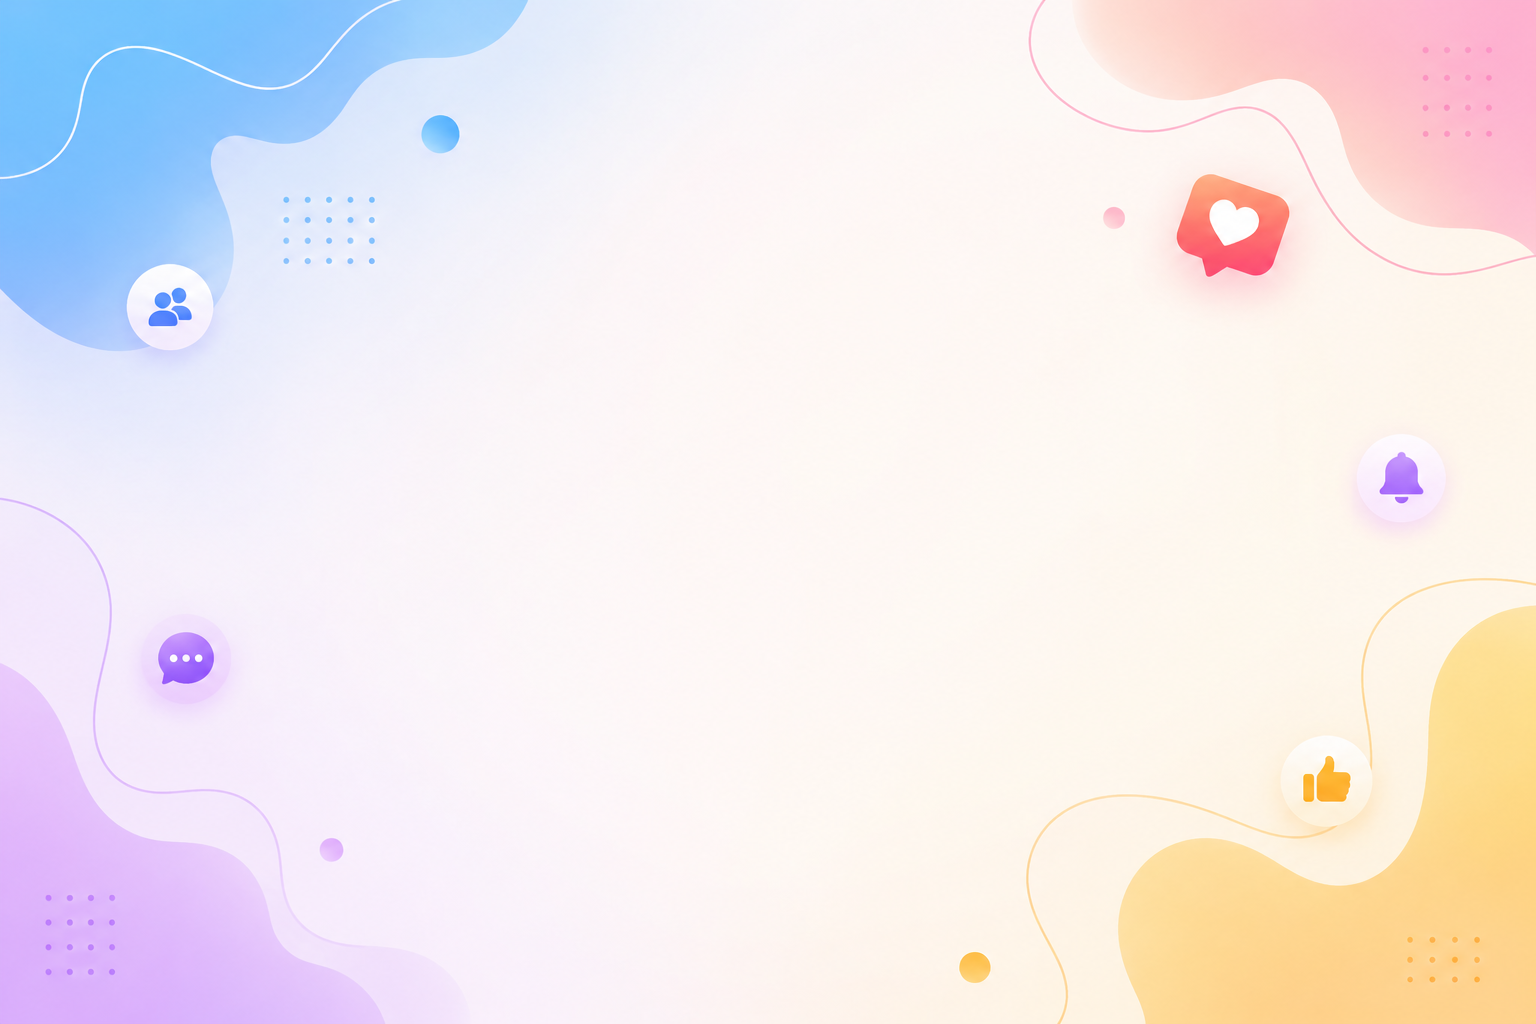
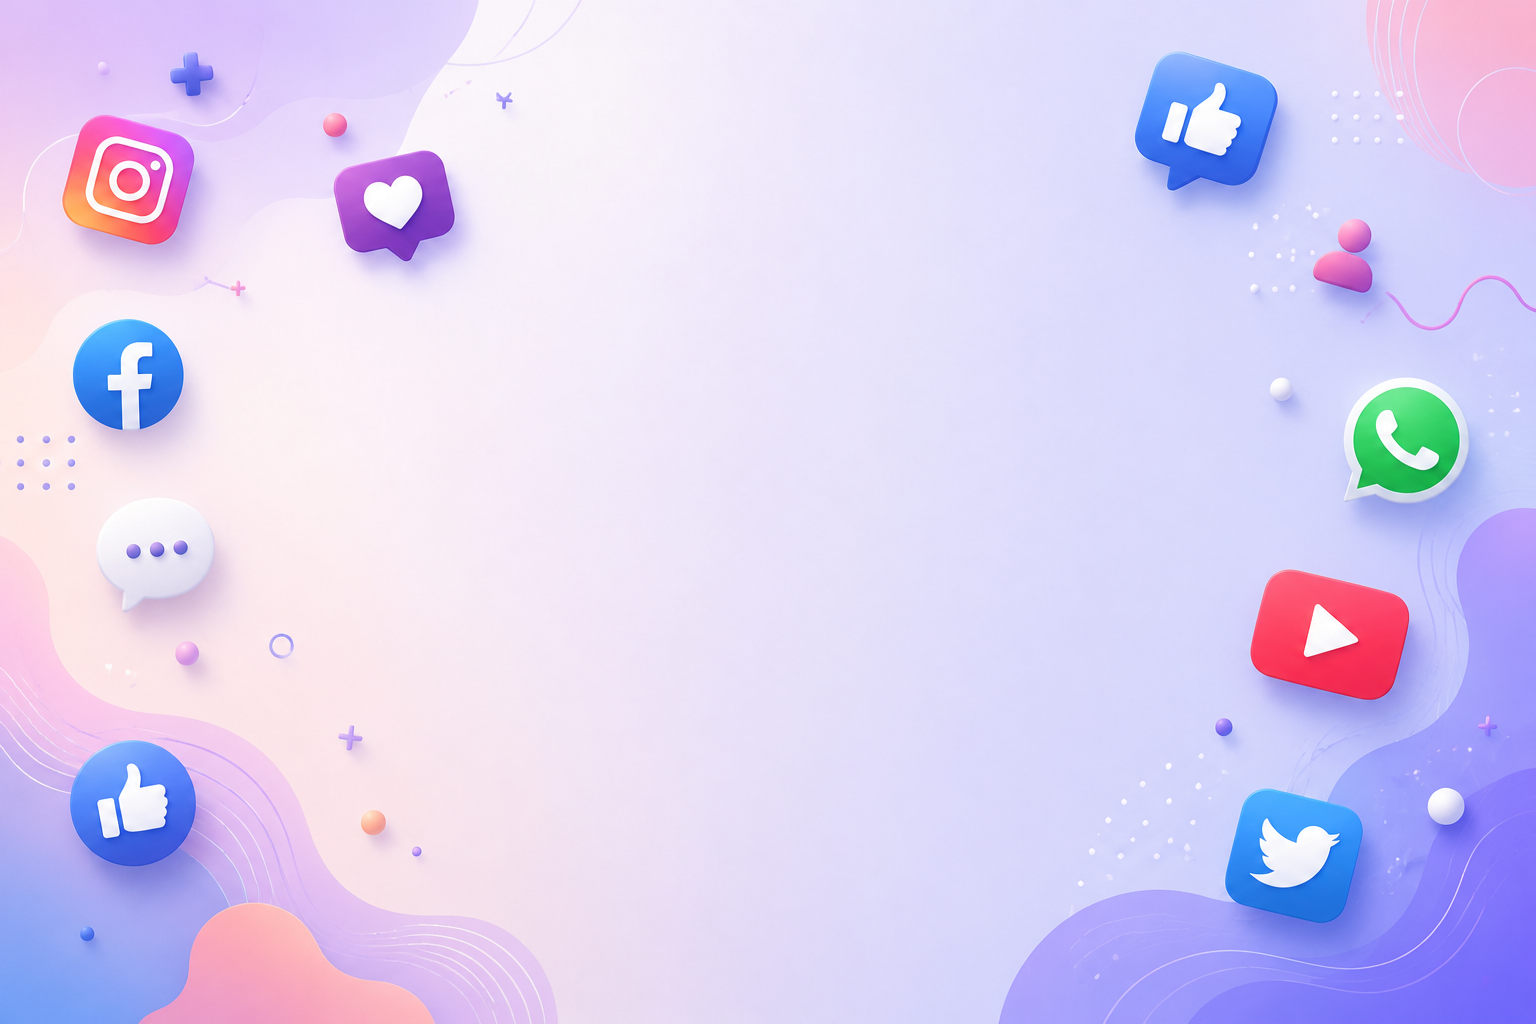
criei a tela home

diff --git a/home.html b/home.html
@@ -1,0 +1,23 @@
+<!DOCTYPE html>
+<html lang="pt-br">
+<head>
+    <meta charset="UTF-8">
+    <meta name="viewport" content="width=device-width, initial-scale=1.0">
+    <title>Home</title>
+</head>
+<style>
+    *{
+        margin:0%;
+        padding: 0%;
+    }
+    body {
+        width: 100vw;
+        height: 100vh;
+        background:black url('imagens/tela-home.jpg')no-repeat top center;
+        background-size: cover;
+    }
+</style>
+<body>
+    
+</body>
+</html>

diff --git a/style.css b/style.css
@@ -31,3 +31,10 @@ section#telefone {
     width: 311px;
      background: url('imagens/frame-iphone.png') no-repeat;
 }
+iframe#tela {
+    position: relative;
+    top: 80px;
+    left: 22px;
+    width: 269px;
+    height: 471px;
+}

diff --git a/index.html b/index.html
@@ -13,7 +13,7 @@
 
     <main>
         <section id="telefone">
-
+            <iframe src="home.html" name="tela" id="tela" frameborder="0"></iframe>
         </section>
 
         <section id="redes-sociais">
